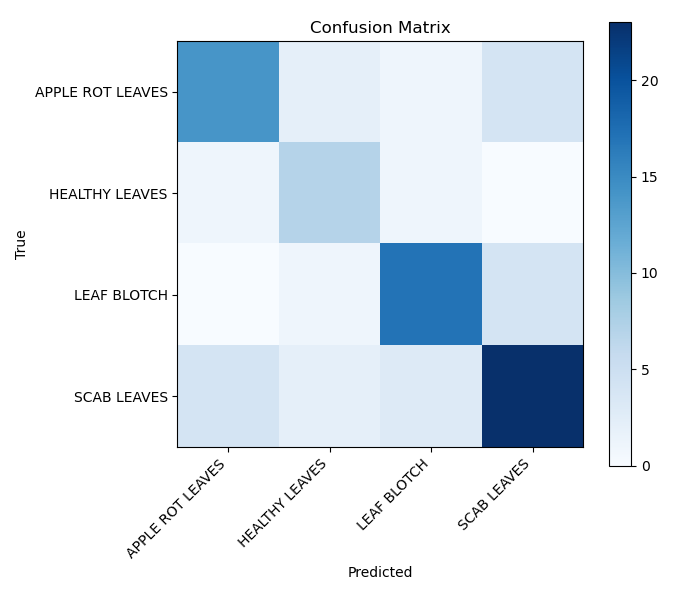
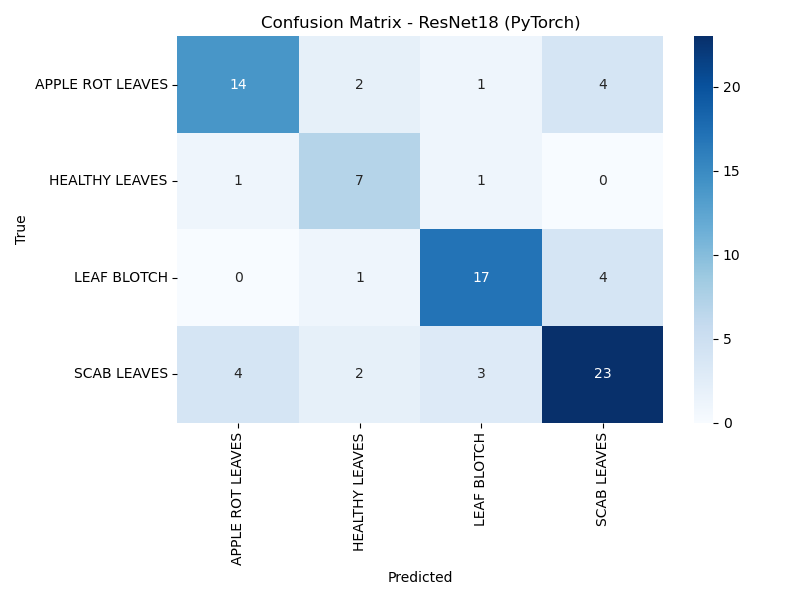
Eval: add confusion matrix, per-class F1 plot, and saved reports

diff --git a/src/eval_pt.py b/src/eval_pt.py
@@ -2,17 +2,27 @@
 import os
 import numpy as np
 import torch
+import torch.nn as nn
+import matplotlib.pyplot as plt
+import seaborn as sns
+import pandas as pd
 from torchvision import models
 from sklearn.metrics import classification_report, confusion_matrix
-import matplotlib.pyplot as plt
 from src.pt_data_loader import get_loaders_stratified
 
 DEVICE = torch.device("cuda" if torch.cuda.is_available() else "cpu")
+DATASET_PATH = "data/APPLE_DISEASE_DATASET"
+MODEL_PATH = "models/pt_resnet18_best.pth"
+IMG_SIZE = 224
+BATCH_SIZE = 16
+VAL_SPLIT = 0.2
+SEED = 42
 
 
 def load_model(path, num_classes):
+    # weights not needed; we'll load checkpoint
     m = models.resnet18(weights=None)
-    m.fc = torch.nn.Linear(m.fc.in_features, num_classes)
+    m.fc = nn.Linear(m.fc.in_features, num_classes)
     m.load_state_dict(torch.load(path, map_location=DEVICE))
     m = m.to(DEVICE)
     m.eval()
@@ -20,45 +30,75 @@ def load_model(path, num_classes):
 
 
 def main():
+    # --- data ---
     _, val_loader, class_names = get_loaders_stratified(
-        dataset_path='data/APPLE_DISEASE_DATASET',
-        img_size=224,
-        batch_size=16,
-        val_split=0.2,
-        seed=42
+        dataset_path=DATASET_PATH,
+        img_size=IMG_SIZE,
+        batch_size=BATCH_SIZE,
+        val_split=VAL_SPLIT,
+        seed=SEED
     )
-    model_path = "models/pt_resnet18_best.pth"
-    if not os.path.exists(model_path):
-        raise SystemExit("Train first: python -m src.train_pt")
 
-    model = load_model(model_path, len(class_names))
+    if not os.path.exists(MODEL_PATH):
+        raise SystemExit(
+            "Model not found. Train first with: python -m src.train_pt")
 
+    # --- model ---
+    model = load_model(MODEL_PATH, len(class_names))
+
+    # --- inference on val set ---
     y_true, y_pred = [], []
     with torch.no_grad():
         for X, y in val_loader:
             X = X.to(DEVICE)
-            out = model(X)
-            y_pred.extend(out.argmax(1).cpu().numpy())
+            logits = model(X)
+            preds = logits.argmax(1).cpu().numpy()
+            y_pred.extend(preds)
             y_true.extend(y.numpy())
 
-    print(classification_report(y_true, y_pred,
-          target_names=class_names, digits=4))
+    # --- metrics ---
+    report_txt = classification_report(
+        y_true, y_pred, target_names=class_names, digits=4)
+    print(report_txt)
+
+    report_dict = classification_report(
+        y_true, y_pred, target_names=class_names, output_dict=True
+    )
+    df_report = pd.DataFrame(report_dict).transpose()
     cm = confusion_matrix(y_true, y_pred)
 
-    plt.figure(figsize=(7, 6))
-    plt.imshow(cm, cmap='Blues')
-    plt.title("Confusion Matrix")
-    plt.colorbar()
-    ticks = np.arange(len(class_names))
-    plt.xticks(ticks, class_names, rotation=45, ha='right')
-    plt.yticks(ticks, class_names)
+    # --- ensure output dirs ---
+    os.makedirs("reports/figures", exist_ok=True)
+    os.makedirs("reports/metrics", exist_ok=True)
+
+    # --- save text / csv reports ---
+    with open("reports/metrics/classification_report.txt", "w") as f:
+        f.write(report_txt)
+    df_report.to_csv("reports/metrics/classification_report.csv", index=True)
+
+    # --- Confusion Matrix (seaborn heatmap) ---
+    plt.figure(figsize=(8, 6))
+    sns.heatmap(cm, annot=True, fmt='d', cmap='Blues',
+                xticklabels=class_names, yticklabels=class_names)
     plt.xlabel("Predicted")
     plt.ylabel("True")
-    os.makedirs("reports/figures", exist_ok=True)
+    plt.title("Confusion Matrix - ResNet18 (PyTorch)")
     plt.tight_layout()
-    out_path = "reports/figures/confusion_matrix_pt.png"
-    plt.savefig(out_path)
-    print(f"Saved confusion matrix to {out_path}")
+    plt.savefig("reports/figures/confusion_matrix_pt.png")
+    plt.close()
+    print("Saved confusion matrix to reports/figures/confusion_matrix_pt.png")
+
+    # --- Per-class F1 bar chart ---
+    plt.figure(figsize=(8, 5))
+    df_report.iloc[:-3]["f1-score"].plot(kind='bar')
+    plt.title("Per-Class F1 Scores - ResNet18 (PyTorch)")
+    plt.ylabel("F1-score")
+    plt.xlabel("Class")
+    plt.xticks(rotation=45, ha='right')
+    plt.tight_layout()
+    plt.savefig("reports/figures/f1_scores_pt.png")
+    plt.close()
+    print("Saved per-class F1 scores to reports/figures/f1_scores_pt.png")
 
 
 if __name__ == "__main__":
